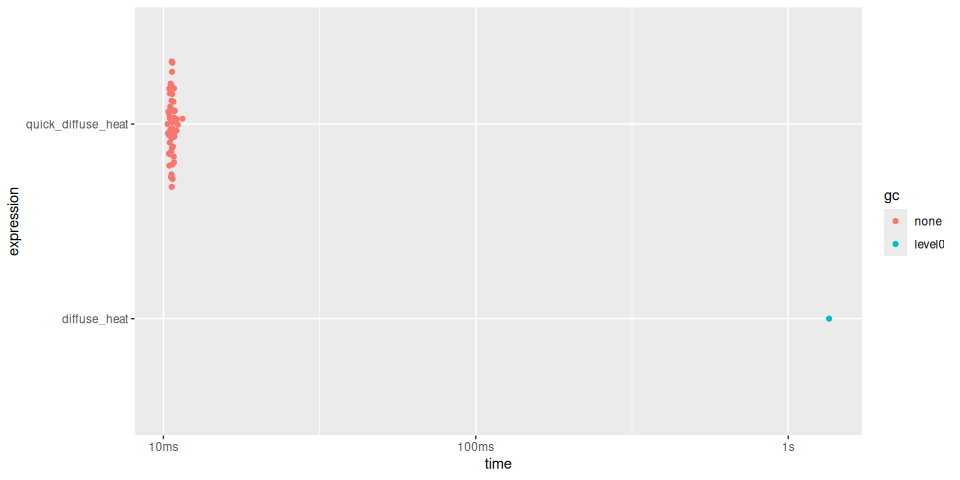
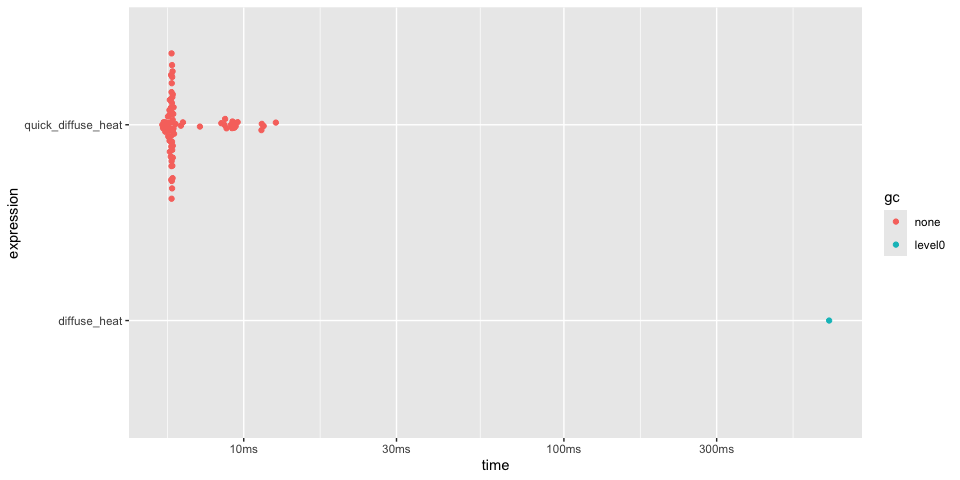
README: show <<- boundary condition helper

diff --git a/README.md b/README.md
@@ -137,9 +137,9 @@ timings
 #> # A tibble: 3 × 6
 #>   expression      min   median `itr/sec` mem_alloc `gc/sec`
 #>   <bch:expr> <bch:tm> <bch:tm>     <dbl> <bch:byt>    <dbl>
-#> 1 r             1.04s    1.04s     0.957     782KB    0.957
-#> 2 quickr       4.85ms   5.03ms   198.        782KB    3.61 
-#> 3 c            4.88ms   5.06ms   197.        782KB    4.13
+#> 1 r          482.14ms 482.85ms      2.07     782KB     3.11
+#> 2 quickr       2.65ms   2.93ms    341.       782KB     7.79
+#> 3 c          925.16µs   1.06ms    936.       782KB    20.7
 plot(timings) + bench::scale_x_bench_time(base = NULL)
 ```
 
@@ -162,17 +162,18 @@ In the case of `convolve()`, `quick()` returns a function approximately
 
 <!-- -->
 
-    #>  [1] -         :         !=        (         [         [<-       {        
-    #>  [8] *         /         &         &&        %/%       %%        ^        
-    #> [15] +         <         <-        <=        =         ==        >        
-    #> [22] >=        |         ||        Arg       Conj      Fortran   Im       
-    #> [29] Mod       Re        abs       acos      as.double asin      atan     
-    #> [36] break     c         cat       cbind     ceiling   character cos      
-    #> [43] declare   dim       double    exp       floor     for       if       
-    #> [50] ifelse    integer   length    log       log10     logical   matrix   
-    #> [57] max       min       ncol      next      nrow      numeric   print    
-    #> [64] prod      raw       repeat    runif     seq       sin       sqrt     
-    #> [71] sum       tan       which.max which.min while
+    #>  [1] -         :         !         !=        (         [         [<-      
+    #>  [8] [<<-      {         *         /         &         &&        %/%      
+    #> [15] %%        ^         +         <         <-        <<-       <=       
+    #> [22] =         ==        >         >=        |         ||        Arg      
+    #> [29] Conj      Fortran   Im        Mod       Re        abs       acos     
+    #> [36] array     as.double asin      atan      break     c         cat      
+    #> [43] cbind     ceiling   character cos       declare   dim       double   
+    #> [50] exp       floor     for       if        ifelse    integer   length   
+    #> [57] log       log10     logical   matrix    max       min       ncol     
+    #> [64] next      nrow      numeric   print     prod      raw       repeat   
+    #> [71] runif     seq       sin       sqrt      sum       tan       which.max
+    #> [78] which.min while
 
 Many of these restrictions are expected to be relaxed as the project
 matures. However, quickr is intended primarily for high-performance
@@ -281,8 +282,8 @@ timings
 #> # A tibble: 2 × 6
 #>   expression         min   median `itr/sec` mem_alloc `gc/sec`
 #>   <bch:expr>    <bch:tm> <bch:tm>     <dbl> <bch:byt>    <dbl>
-#> 1 slow_viterbi  147.12µs 162.33µs     5957.    1.59KB     16.8
-#> 2 quick_viterbi   2.48µs   2.62µs   367468.        0B      0
+#> 1 slow_viterbi   61.38µs  71.83µs    13004.    1.59KB     39.9
+#> 2 quick_viterbi   1.44µs   1.68µs   571300.        0B      0
 plot(timings)
 ```
 
@@ -313,12 +314,13 @@ diffuse_heat <- function(nx, ny, dx, dy, dt, k, steps) {
   temp <- matrix(0, nx, ny)
   temp[nx / 2, ny / 2] <- 100  # Initial heat source in the center
 
-  apply_boundary_conditions <- function(temp) {
-    temp[1, ] <- 0
-    temp[nx, ] <- 0
-    temp[, 1] <- 0
-    temp[, ny] <- 0
-    temp
+  # Local helper that updates `temp` in-place.
+  apply_boundary_conditions <- function() {
+    temp[1, ] <<- 0
+    temp[nx, ] <<- 0
+    temp[, 1] <<- 0
+    temp[, ny] <<- 0
+    NULL
   }
 
   update_temperature <- function(temp, k, dx, dy, dt) {
@@ -335,7 +337,7 @@ diffuse_heat <- function(nx, ny, dx, dy, dt, k, steps) {
 
   # Time stepping
   for (step in seq_len(steps)) {
-    temp <- apply_boundary_conditions(temp)
+    apply_boundary_conditions()
     temp <- update_temperature(temp, k, dx, dy, dt)
   }
 
@@ -365,8 +367,8 @@ summary(timings, relative = TRUE)
 #> # A tibble: 2 × 6
 #>   expression           min median `itr/sec` mem_alloc `gc/sec`
 #>   <bch:expr>         <dbl>  <dbl>     <dbl>     <dbl>    <dbl>
-#> 1 diffuse_heat        131.   127.        1      1011.      Inf
-#> 2 quick_diffuse_heat    1      1       127.        1       NaN
+#> 1 diffuse_heat        121.   113.        1       514.      Inf
+#> 2 quick_diffuse_heat    1      1       100.        1       NaN
 plot(timings)
 ```
 
@@ -412,9 +414,9 @@ timings
 #> # A tibble: 3 × 6
 #>   expression      min   median `itr/sec` mem_alloc `gc/sec`
 #>   <bch:expr> <bch:tm> <bch:tm>     <dbl> <bch:byt>    <dbl>
-#> 1 r           114.2ms 132.75ms      5.66  124.24MB     9.44
-#> 2 rcpp        19.35ms  19.58ms     50.9     4.44MB     0   
-#> 3 quickr       6.73ms   6.87ms    142.    781.35KB     1.98
+#> 1 r           71.53ms  81.95ms      9.17  124.24MB    22.0 
+#> 2 rcpp         5.93ms   6.24ms    158.      4.45MB     1.98
+#> 3 quickr       3.13ms   3.32ms    300.    781.35KB     2.00
 
 timings$expression <- factor(names(timings$expression), rev(names(timings$expression)))
 plot(timings) + bench::scale_x_bench_time(base = NULL)
